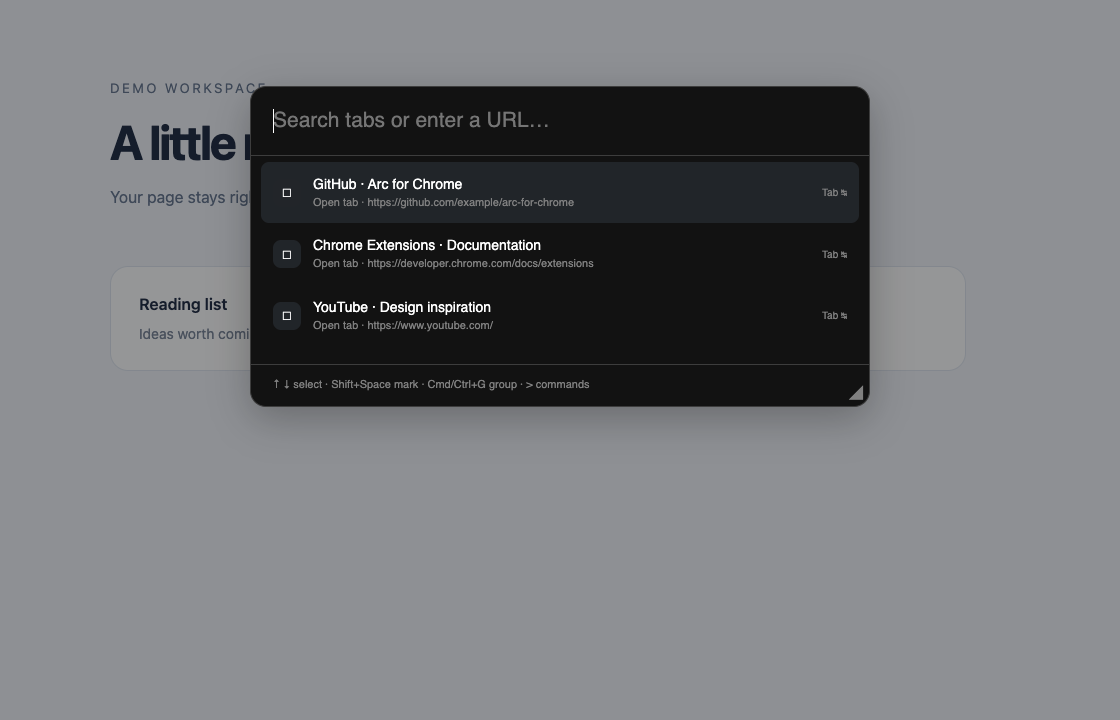
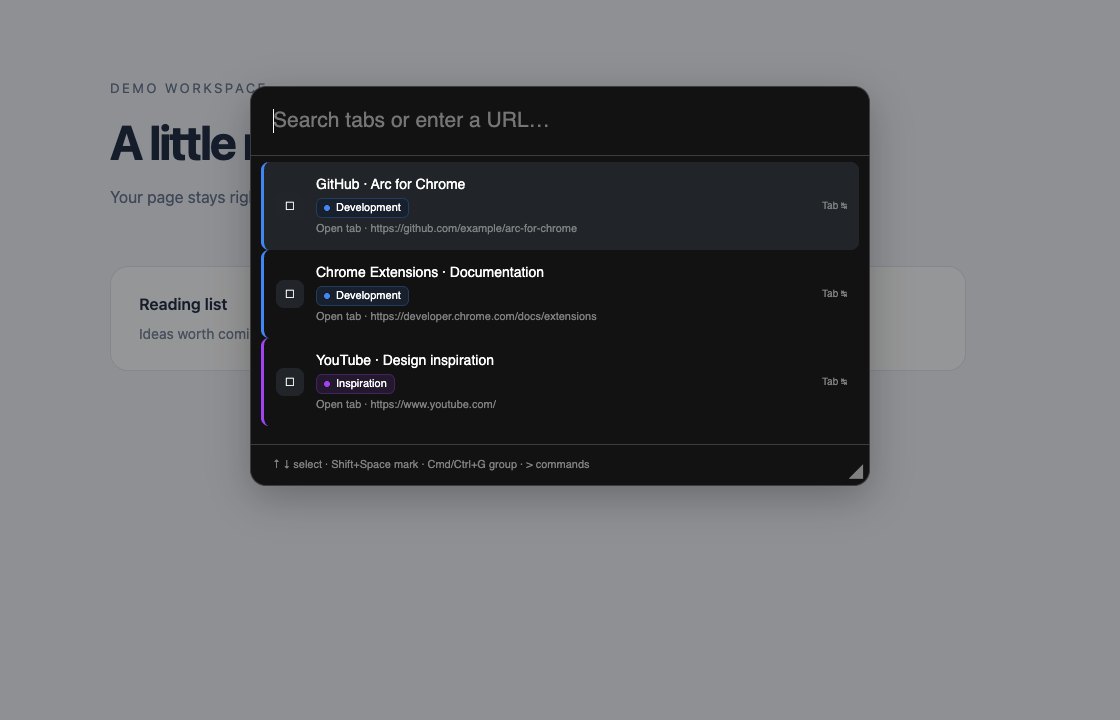
feat: label grouped tabs with native names and colors
Share source-window group metadata between Search and Arrange, render named color badges and side stripes, and preserve neutral fallbacks without changing tab order or selection identity.

Verified 94 tests and real Chrome badge/group workflow regression; inspected light/dark demo captures and updated documentation.

Changed region(s): [[0.2188, 0.4889, 0.7812, 0.7028], [0.2812, 0.2444, 0.5312, 0.4583]]

diff --git a/scripts/check-palette-keyboard.js b/scripts/check-palette-keyboard.js
@@ -329,9 +329,11 @@ try {
       if(message.mode==='group-actions')return {ok:true,suggestions:groupActionRows.filter(row=>row.title.toLowerCase().includes(message.query.toLowerCase())),warnings:[]};
       return {ok:true,suggestions:mockTabs.map(tab=>({...tab,kind:'tab',sources:['tab']})),warnings:[]};
     };`);
-  const selectableTabs=[{id:81,title:'Alpha',url:'https://alpha.example'},{id:82,title:'Beta',url:'https://beta.example'}];
+  const selectableTabs=[{id:81,title:'Alpha',url:'https://alpha.example',groupTitle:'Work',groupColor:'purple'},{id:82,title:'Beta',url:'https://beta.example'}];
   await mount(selectableTabs,groupContext);
   await evaluate('new Promise(resolve=>setTimeout(resolve,220))');
+  assert.equal(await paletteCall(`function(){return this.querySelector('.group-badge').textContent;}`),'Work');
+  assert.equal(await paletteCall(`function(){return this.querySelector('[data-group-color]').dataset.groupColor;}`),'purple');
   await key(' ','Space',' ',8);await key('ArrowDown','ArrowDown');await key(' ','Space',' ',8);
   assert.equal(await paletteCall(`function(){return this.querySelectorAll('[aria-checked="true"]').length;}`),2);
   await key('g','KeyG','',4);await send('Input.insertText',{text:'Research'});await key('Enter','Enter');
@@ -474,7 +476,7 @@ try {
     await send('Emulation.setDeviceMetricsOverride',{width:1120,height:720,deviceScaleFactor:1,mobile:false});
     await evaluate(`document.body.innerHTML='<main><small>DEMO WORKSPACE</small><h1>A little more focus.</h1><p>Your page stays right here while you find your next destination.</p><section><article>Reading list<br><span>Ideas worth coming back to</span></article><article>Current project<br><span>One good thing at a time</span></article></section></main>';document.body.style.cssText='margin:0;background:#edf1f7;color:#243048;font:16px system-ui';const style=document.createElement('style');style.textContent='main{max-width:900px;margin:80px auto}small{letter-spacing:.18em;color:#687892}h1{font-size:48px;letter-spacing:-2px;margin:18px 0}p{color:#687892}section{display:flex;gap:20px;margin-top:60px}article{background:#ffffffaa;border:1px solid #dbe2ed;border-radius:18px;padding:28px;width:40%;font-weight:600}article span{display:block;color:#7b879b;font-size:14px;font-weight:400;margin-top:12px}';document.head.append(style);
       globalThis.chrome.runtime.sendMessage=async message=>{if(message.type!=='palette:suggest')return {ok:true};if(message.mode==='commands')return {ok:true,suggestions:commandRows,warnings:[]};return {ok:true,suggestions:(mockTabs||[]).filter(tab=>(tab.title+' '+tab.url).toLowerCase().includes(message.query.toLowerCase())).map(tab=>({...tab,kind:'tab',sources:['tab']})),warnings:[]};};`);
-    const demoTabs=[{id:101,title:'GitHub · Arc for Chrome',url:'https://github.com/example/arc-for-chrome'},{id:102,title:'Chrome Extensions · Documentation',url:'https://developer.chrome.com/docs/extensions'},{id:103,title:'YouTube · Design inspiration',url:'https://www.youtube.com/'}];
+    const demoTabs=[{id:101,title:'GitHub · Arc for Chrome',url:'https://github.com/example/arc-for-chrome',groupTitle:'Development',groupColor:'blue'},{id:102,title:'Chrome Extensions · Documentation',url:'https://developer.chrome.com/docs/extensions',groupTitle:'Development',groupColor:'blue'},{id:103,title:'YouTube · Design inspiration',url:'https://www.youtube.com/',groupTitle:'Inspiration',groupColor:'purple'}];
     await mount(demoTabs,context);
     await screenshot('demo-01');
     await send('Input.insertText',{text:'github'});

diff --git a/extension/palette.js b/extension/palette.js
@@ -53,6 +53,14 @@ export function mountPalette(tabs, floating = false, context = {}) {
       button{font:inherit;color:inherit;cursor:pointer}button.result{display:flex;align-items:center;gap:12px;width:100%;border:0;
       border-radius:8px;background:transparent;text-align:left;padding:12px}button.result[aria-selected=true]{background:var(--hover)}
       button.result[data-marked=true]{box-shadow:inset 3px 0 Highlight}
+      .result[data-group-color]{border-left:3px solid var(--group-color)}
+      [data-group-color=grey]{--group-color:#80868b}[data-group-color=blue]{--group-color:#4285f4}
+      [data-group-color=red]{--group-color:#ea4335}[data-group-color=yellow]{--group-color:#fbbc04}
+      [data-group-color=green]{--group-color:#34a853}[data-group-color=pink]{--group-color:#e871bd}
+      [data-group-color=purple]{--group-color:#a142f4}[data-group-color=cyan]{--group-color:#24c1e0}
+      [data-group-color=orange]{--group-color:#fa903e}
+      .group-badge{display:inline-block;max-width:100%;overflow:hidden;text-overflow:ellipsis;white-space:nowrap;vertical-align:middle;padding:1px 7px;margin:3px 0;border-radius:6px;font-size:.6875rem;color:CanvasText;background:color-mix(in srgb,var(--group-color) 12%,Canvas);border:1px solid color-mix(in srgb,var(--group-color) 35%,Canvas)}
+      .group-badge::before{content:'';display:inline-block;width:6px;height:6px;border-radius:50%;background:var(--group-color);margin-right:6px;vertical-align:middle}
       .icon{width:28px;height:28px;border-radius:8px;background:var(--hover);display:grid;place-items:center;flex-shrink:0}
       .text{min-width:0;flex:1}.title,.url{display:block;white-space:nowrap;overflow:hidden;text-overflow:ellipsis}
       .url{font-size:.6875rem;color:var(--muted)}.hint{font-size:.625rem;color:var(--muted);flex-shrink:0}
@@ -370,9 +378,15 @@ export function mountPalette(tabs, floating = false, context = {}) {
         const title = document.createElement('span');title.className = 'title';title.textContent = choice.title || 'Untitled tab';
         const url = document.createElement('span');url.className = 'url';url.textContent = (['navigate','order-tab','move','ai-draft'].includes(choice.kind) || choice.kind.startsWith('group-')) ? choice.url
           : `${(choice.sources || [choice.kind]).map(source => labels[source]).join(' · ')} · ${choice.url || ''}`;
-        if(choice.groupTitle)url.textContent+=` · Group: ${choice.groupTitle}`;
+        if(choice.groupColor || choice.groupTitle)row.dataset.groupColor=choice.groupColor || 'grey';
         if (choice.match) url.textContent += choice.match === 'layout' ? ' · Keyboard layout match' : ' · Similar spelling';
-        text.append(title,url);row.append(icon,text);
+        text.append(title);
+        if(choice.groupTitle) {
+          const badge=document.createElement('span');badge.className='group-badge';
+          badge.textContent=choice.groupTitle+(choice.groupCollapsed?' · Collapsed':'');
+          badge.title=`Tab group: ${choice.groupTitle}`;text.append(badge);
+        }
+        text.append(url);row.append(icon,text);
         if (choice.kind !== 'navigate' && !choice.kind.startsWith('group-') && !['command','closed','order-tab','move','ai-draft'].includes(choice.kind)) {
           const hint = document.createElement('span');hint.className = 'hint';hint.textContent = choice.kind==='site-query'?'Enter ↵':'Tab ↹';row.append(hint);
         }

diff --git a/extension/tab-groups.js b/extension/tab-groups.js
@@ -23,14 +23,14 @@ async function selection(api,windowId,ids,allowPinned=false) {
   return tabs;
 }
 export async function groupSuggestions(api,windowId,query) {
-  const existing=(await groups(api,windowId)).map(item=>({kind:'group-add',groupId:item.id,title:item.title || 'Untitled group',url:`Add selected tabs · ${item.color}`})).filter(row=>match(row,query));
+  const existing=(await groups(api,windowId)).map(item=>({kind:'group-add',groupId:item.id,groupColor:item.color,title:item.title || 'Untitled group',url:`Add selected tabs · ${item.color}`})).filter(row=>match(row,query));
   const name=query.trim() || 'New group';
   const create=name.length<=80?[{kind:'group-create',title:`Create group “${name}”`,name,url:'Group selected tabs · Enter create'}]:[];
   const exact=existing.filter(row=>row.title.toLocaleLowerCase()===query.trim().toLocaleLowerCase());
   return [...exact,...create,...existing.filter(row=>!exact.includes(row))];
 }
 export async function manageGroupSuggestions(api,windowId,query) {
-  return (await groups(api,windowId)).map(item=>({kind:'group-manage',groupId:item.id,title:item.title || 'Untitled group',url:`${item.color} · ${item.collapsed?'Collapsed':'Expanded'}`})).filter(row=>match(row,query));
+  return (await groups(api,windowId)).map(item=>({kind:'group-manage',groupId:item.id,groupColor:item.color,title:item.title || 'Untitled group',url:`${item.color} · ${item.collapsed?'Collapsed':'Expanded'}`})).filter(row=>match(row,query));
 }
 export async function groupActionSuggestions(api,windowId,id,query) {
   const item=await group(api,windowId,id);
@@ -71,4 +71,16 @@ export async function changeGroup(api,windowId,message) {
   }
   const update=message.action==='rename'?{title:name}:message.action==='color'?{color:message.color}:{collapsed:!item.collapsed};
   await api.tabGroups.update(item.id,update);
+}
+
+export async function groupMetadata(api,windowId) {
+  try {
+    const items=await api.tabGroups?.query({windowId}) || [];
+    return new Map(items.filter(item=>item.windowId===windowId).map(item=>[item.id,{
+      groupTitle:item.title || 'Untitled group',groupColor:GROUP_COLORS.includes(item.color)?item.color:'grey',groupCollapsed:Boolean(item.collapsed)
+    }]));
+  } catch {return new Map();}
+}
+export function decorateGroup(row,groupId,metadata) {
+  return groupId>=0?{...row,...(metadata.get(groupId) || {groupTitle:'Grouped',groupColor:'grey'})}:row;
 }

diff --git a/extension/tab-order.js b/extension/tab-order.js
@@ -1,3 +1,4 @@
+import {groupMetadata,decorateGroup} from './tab-groups.js';
 // Resolve positions from Chrome on every request; never trust a stale UI index.
 function sameSection(a,b) {
   return Boolean(a.pinned)===Boolean(b.pinned) && (a.groupId ?? -1)===(b.groupId ?? -1);
@@ -18,13 +19,13 @@ function position(tab) {
   return `Position ${tab.index+1}${tab.pinned?' · Pinned':''}${tab.groupId>=0?' · Grouped':''} · ${tab.url || ''}`;
 }
 export async function orderSuggestions(api,windowId,query,tabId) {
-  const tabs=await windowTabs(api,windowId);
-  if(tabId===undefined) return tabs.map(tab=>({kind:'order-tab',tabId:tab.id,title:tab.title || 'Untitled tab',url:position(tab)})).filter(row=>matches(row,query));
+  const [tabs,metadata]=await Promise.all([windowTabs(api,windowId),groupMetadata(api,windowId)]);
+  if(tabId===undefined) return tabs.map(tab=>decorateGroup({kind:'order-tab',tabId:tab.id,title:tab.title || 'Untitled tab',url:position(tab)},tab.groupId,metadata)).filter(row=>matches(row,query));
   const tab=selectedTab(tabs,tabId);
   const actions=[['left','Move one position left / up'],['right','Move one position right / down'],['start','Move to start'],['end','Move to end']]
     .map(([placement,title])=>({kind:'move',placement,title,url:`${tab.title || 'Selected tab'} · Within its pinned/group section`}));
   const destinations=tabs.filter(other=>other.id!==tabId && sameSection(tab,other))
-    .map(other=>({kind:'move',placement:'before',beforeTabId:other.id,title:`Move before ${other.title || 'Untitled tab'}`,url:position(other)}));
+    .map(other=>decorateGroup({kind:'move',placement:'before',beforeTabId:other.id,title:`Move before ${other.title || 'Untitled tab'}`,url:position(other)},other.groupId,metadata));
   return [...actions,...destinations].filter(row=>matches(row,query));
 }
 export async function moveTab(api,windowId,message) {

diff --git a/extension/suggestions.js b/extension/suggestions.js
@@ -1,3 +1,4 @@
+import {groupMetadata,decorateGroup} from './tab-groups.js';
 import {mergeBrowserPages} from './browser-pages.js';
 import { matchPage, queryVariants } from './search-match.js';
 
@@ -62,7 +63,7 @@ async function sourceCandidates(api, source, query) {
 export async function findSuggestions(api, windowId, input) {
   if (typeof input !== 'string' || input.length > 8192) throw new Error('Invalid query');
   const query = input.trim();
-  const groups=Promise.resolve().then(()=>api.tabGroups?.query({windowId}) || []).catch(()=>[]);
+  const groups=groupMetadata(api,windowId);
   const requests = [() => api.tabs.query({windowId})];
   if (query) requests.push(() => sourceCandidates(api,'bookmarks',query), () => sourceCandidates(api,'history',query));
   const results = await Promise.allSettled(requests.map(request => Promise.resolve().then(request)));
@@ -79,10 +80,10 @@ export async function findSuggestions(api, windowId, input) {
     const [saved,visited]=recent.map(result=>result.status==='fulfilled'?result.value:[]);
     suggestions=rankSuggestions(tabs,[...bookmarks,...saved],[...history,...visited],query);
   }
-  const namesById=new Map((await groups).map(group=>[group.id,group.title || 'Untitled group']));
+  const metadata=await groups;
   const rows=mergeBrowserPages(suggestions,tabs,query).map(row=>{
     const tab=row.kind==='tab'?tabs.find(tab=>tab.id===row.id):null;
-    return tab?.groupId>=0?{...row,groupTitle:namesById.get(tab.groupId) || 'Grouped'}:row;
+    return decorateGroup(row,tab?.groupId,metadata);
   });
   return {suggestions:rows,domains:domainSuggestions(suggestions,query),warnings};
 }

diff --git a/tests/tab-order.test.js b/tests/tab-order.test.js
@@ -47,3 +47,10 @@ test('destination suggestions exclude other pin/group sections and keep query fi
  assert.deepEqual(rows.map(row=>[row.placement,row.beforeTabId]),[['before',6]]);
  await assert.rejects(()=>orderSuggestions(browser(),2,'',99));
 });
+test('arrange carries native group name/color and keeps its actual tab order',async()=>{
+ const api=browser();api.tabGroups={query:async()=>[{id:7,windowId:2,title:'Research',color:'purple'}]};
+ const rows=await orderSuggestions(api,2,'');
+ assert.equal(rows.find(row=>row.tabId===3).groupTitle,'Research');
+ assert.equal(rows.find(row=>row.tabId===4).groupColor,'purple');
+ assert.deepEqual(rows.map(row=>row.tabId),[1,2,3,4,5,6]);
+});

diff --git a/docs/WORK_LOG.md b/docs/WORK_LOG.md
@@ -201,3 +201,9 @@ Each commit body should state its rationale and the checks actually run. Publish
 106. Added Manage tab groups through Commands and Cmd/Ctrl+Alt+G: choose a source-window group, rename it, select a Chrome color, collapse/expand or Ungroup · Keep all tabs open. Added tabGroups permission and passed the single allowed-color catalogue/source ID into both injection and fallback contexts. Normal tab suggestions show group names when metadata is available. No group action closes tabs or offers saved-group deletion; native sync/empty-group behavior belongs to Chrome.
 107. tab-groups.js validates 1–100 distinct tab IDs, resolves all selected tabs before mutation, rejects stale/foreign/pinned create/add targets, validates group ownership, names and colors, and ungroups only the requested members/group. Native create then update is not atomic: a failed name update explicitly reports that grouping occurred. Group mutations remain in the worker with existing sender/source validation and action-journal metadata. Marked selection is not persisted.
 108. Tests were written and failed before the new module; an exact-name priority expectation also failed before the ranking adjustment. All 93 behavior tests/module checks pass. Real headless Chrome with mocked APIs passes marking two tabs, Cmd/Ctrl creation/addition, existing-name priority, removal shortcut, rename/color/dissolve management, # entry, visible failure and page-key isolation, plus all prior resize/order/provider/history regressions. Native grouping/sync and actual shortcut interception remain installed-profile smoke checks. Updated English/Russian README, security/architecture/user/keyboard/testing docs and fictional media; git diff --check passes. Crapper/Dryer/Mutator remain unavailable; no push attempted.
+
+## Named group colors v0.19.1
+
+109. User requested visual marking and captions for existing groups. Added a named color badge and matching left stripe on grouped tab rows in Search, Arrange and before-placement results, plus colored group-picker rows. Collapsed state is included; text remains readable independently of color, with truncation/full-name tooltip. Marked-selection highlights stay separate.
+110. Centralized source-window group metadata/decorating in tab-groups.js and applied it to normal/order suggestions in parallel with existing source reads. Metadata failures retain tabs with a neutral Grouped fallback; source ranking/native order remain unchanged and group IDs do not replace tab identity keys.
+111. Added a failing order-metadata regression before implementation. All 94 tests and syntax checks pass. Expanded real Chrome harness verifies label/color alongside selection/group actions and all prior regressions. Visually inspected fictional light/dark previews, updated README/user/architecture/testing docs and regenerated palette demo assets while preserving the unrelated activity screenshot. git diff --check passes. No extra permissions; no push attempted.

diff --git a/docs/USER_GUIDE.md b/docs/USER_GUIDE.md
@@ -1,6 +1,6 @@
 # User guide
 
-An independent, Arc-inspired **Command Bar for Chrome**: local page suggestions, Site Search, browser actions and URL editing in one keyboard-driven overlay. Early MVP, v0.19.0. Not affiliated with Arc or The Browser Company.
+An independent, Arc-inspired **Command Bar for Chrome**: local page suggestions, Site Search, browser actions and URL editing in one keyboard-driven overlay. Early MVP, v0.19.1. Not affiliated with Arc or The Browser Company.
 
 ## Install / update
 
@@ -154,3 +154,7 @@ Shift+Space or the square beside an open tab marks it; marks survive filtering a
 Cmd/Ctrl+Alt+G or Manage tab groups opens source-window groups. Enter a group to rename, choose one of Chrome's nine colors, toggle collapsed state or dissolve its membership with Ungroup · Keep all tabs open. This never invokes tab closure or saved-group deletion APIs. Native sync effects follow Chrome; no promise of preserving a saved copy after native ungrouping is made. Group creation and naming use two Chrome calls: if naming fails after creation, the error explicitly reports that tabs were grouped and can be renamed via Manage. Operations remain open for further work and are recorded as group action metadata in the local journal.
 
 The tabGroups permission is added for group metadata/update; tabs.group/ungroup provides membership. Source-window checks apply to both service-page popup and injected overlay. Ordinary page results show group titles after browser suggestions resolve. Shortcuts are local, not new global command registrations. If an OS/browser intercepts a chord, use # or searchable commands instead.
+
+## Visible group labels (0.19.1)
+
+Search, Arrange and before-placement results carry shared source-window group metadata. Grouped tabs show a named color badge and a matching left border; collapsed state is included. Group pickers also use group colors. Missing metadata falls back to a neutral Grouped badge without dropping tabs. Labels use textContent and truncate visually, retaining the full name in a tooltip. These annotations do not change ranking or native tab order.

diff --git a/docs/ARCHITECTURE.md b/docs/ARCHITECTURE.md
@@ -82,3 +82,5 @@ Injection failures try a tab-specific action popup with source context in its UR
 `tab-groups.js` owns allowed colors, title validation (1–80 chars), selection validation (1–100 distinct integer IDs), source-window group queries and native mutations. All selected tabs are resolved before mutating; create/add rejects pins. Group get validates window ownership for membership/update/dissolve. Dissolve queries only that group's current members and calls tabs.ungroup, never remove/close. A naming failure after native group creation reports the partial result explicitly.
 
 The serialized UI receives GROUP_COLORS and sourceTabId in context, retaining a Set of marked tab IDs across queries. Marking is keyboard-accessible and also available through the result icon; aria-checked represents marks separately from the active combobox option. Group-picker targets are frozen on entry. Group-management scopes support action/name/color selection without a toolbar. The worker alone validates and executes group actions, and the journal stores action/count metadata. Group names are appended to normal tab suggestions using a parallel source-window metadata query; metadata failures do not discard ordinary results. No selection or duplicate group model is persisted.
+
+0.19.1: groupMetadata/decorateGroup in tab-groups.js is the shared source for normal and order suggestions, queried in parallel with tabs and degraded safely on metadata failures. UI group color is a data attribute mapped to fixed CSS hues; named badges avoid color-only identification and use textContent. Marks retain their independent inset highlight. No group ID is introduced into tab-row selection keys, so tabs sharing a group remain independently selectable.

diff --git a/docs/TESTING.md b/docs/TESTING.md
@@ -119,3 +119,7 @@ Capture window errors from both the palette frame and parent document. Exercise 
 Unit checks cover create/add/remove/dissolve/rename/color/collapse, title/color validation, duplicate/stale/foreign/pinned selection rejection before mutation, source-window message validation and preserving unrelated tabs. Browser regression exercises two-result marking, Cmd and Ctrl group entry, naming, existing-group selection, remove shortcut, Manage → rename/color/dissolve, # entry, error display and host-page keyboard isolation. Browser APIs remain stubbed.
 
 Installed smoke checklist: reload/re-enable with tabGroups permission; mark tabs across different queries and confirm marked count, source/highlight fallback and Escape clearing. Create and add native groups, remove only selected members, rename/recolor/collapse/expand, and dissolve without closing any tab. Test grouped/pinned tabs, stale members, two windows and source-context fallback popup. Verify group titles in results, continued vertical/horizontal tab movement and journal metadata. Saved-group deletion is not offered; observe Chrome's own syncing/empty-group behavior. Native shortcut interception is a manual check; # and searchable commands remain fallback entry paths.
+
+## Group visuals v0.19.1
+
+Unit regression verifies Arrange includes actual group name/color while preserving tab-strip order. Real browser regression checks the named badge and color attribute alongside multiselect/group actions. Inspect fictional light/dark demo captures for badge readability, multiple group colors, marked-tab contrast and truncation at narrow sizes. Metadata failure must retain grouped tabs with a neutral fallback. No extra permission.

diff --git a/README.md b/README.md
@@ -149,6 +149,8 @@ Positions are read from the source window in Chrome’s actual tab-strip order. 
 
 ### Group tabs without a toolbar
 
+Grouped tabs have a named color badge and matching side stripe in Search and Arrange, with collapsed state noted. Colors identify the native Chrome group; names keep membership readable without relying on color alone.
+
 In Search or `@`, mark tabs with **Shift+Space** or click the square beside a result. Marks survive query changes so you can collect tabs from different searches; at most 100 tabs per operation. Escape in Search clears marks before closing.
 
 | Action | Shortcut inside Spotlight |
